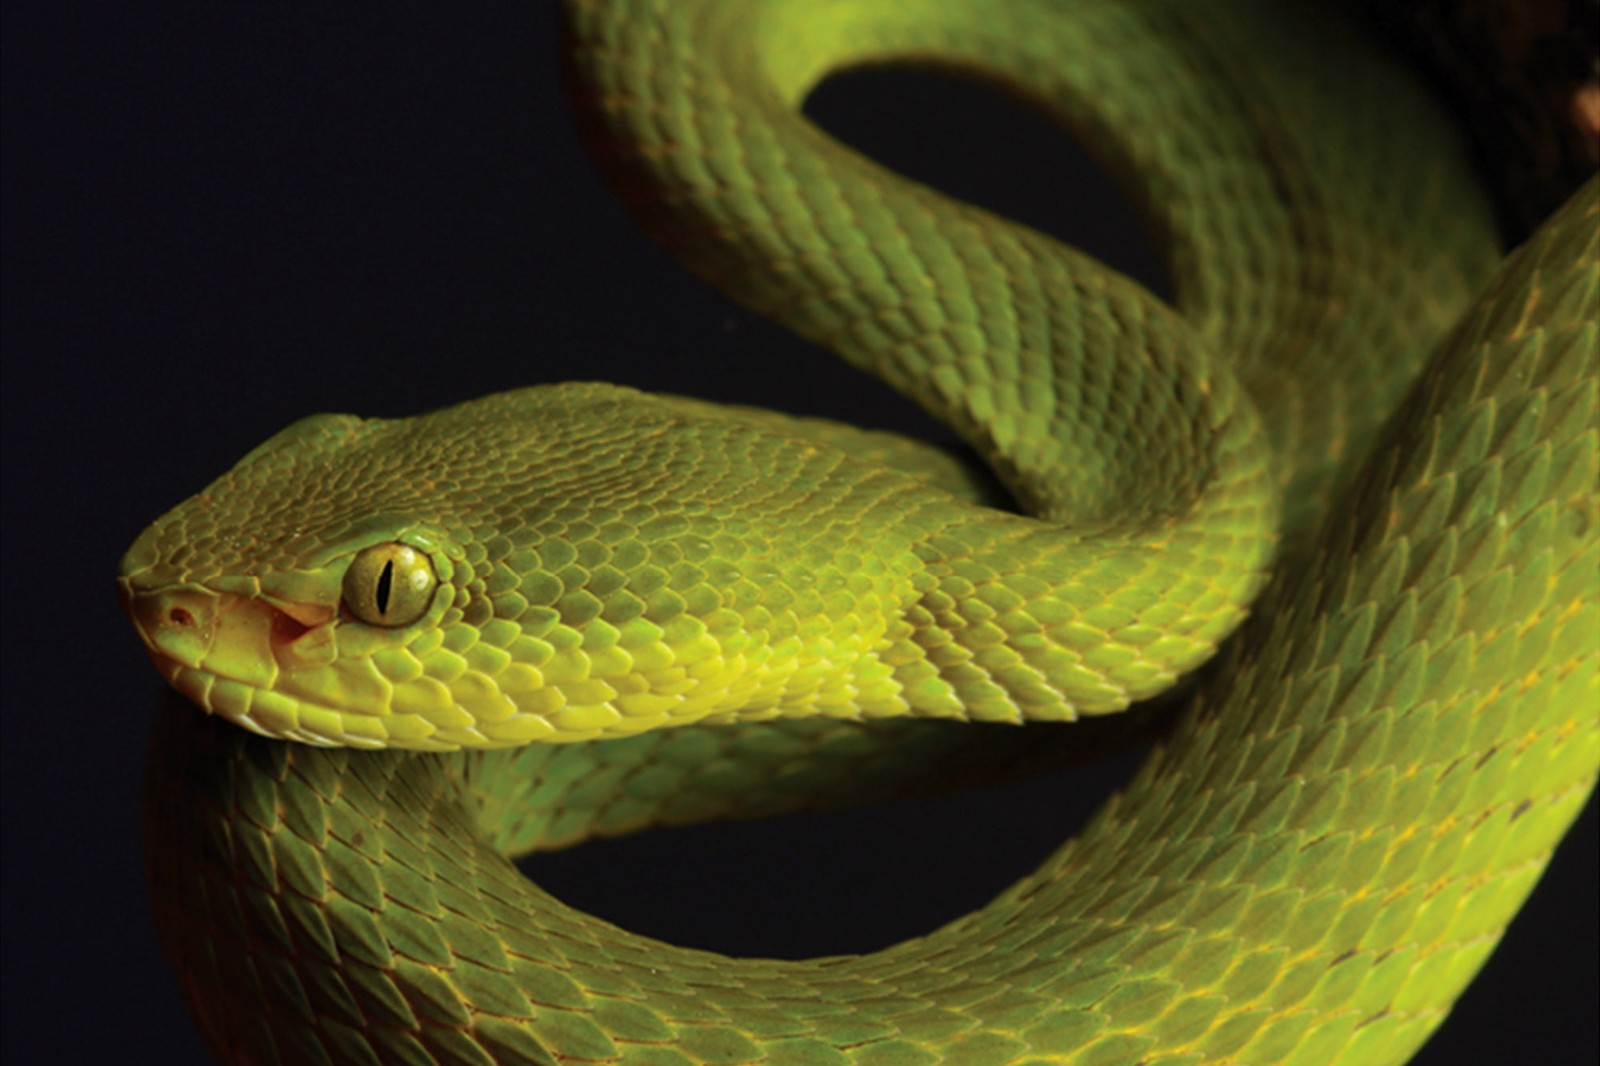
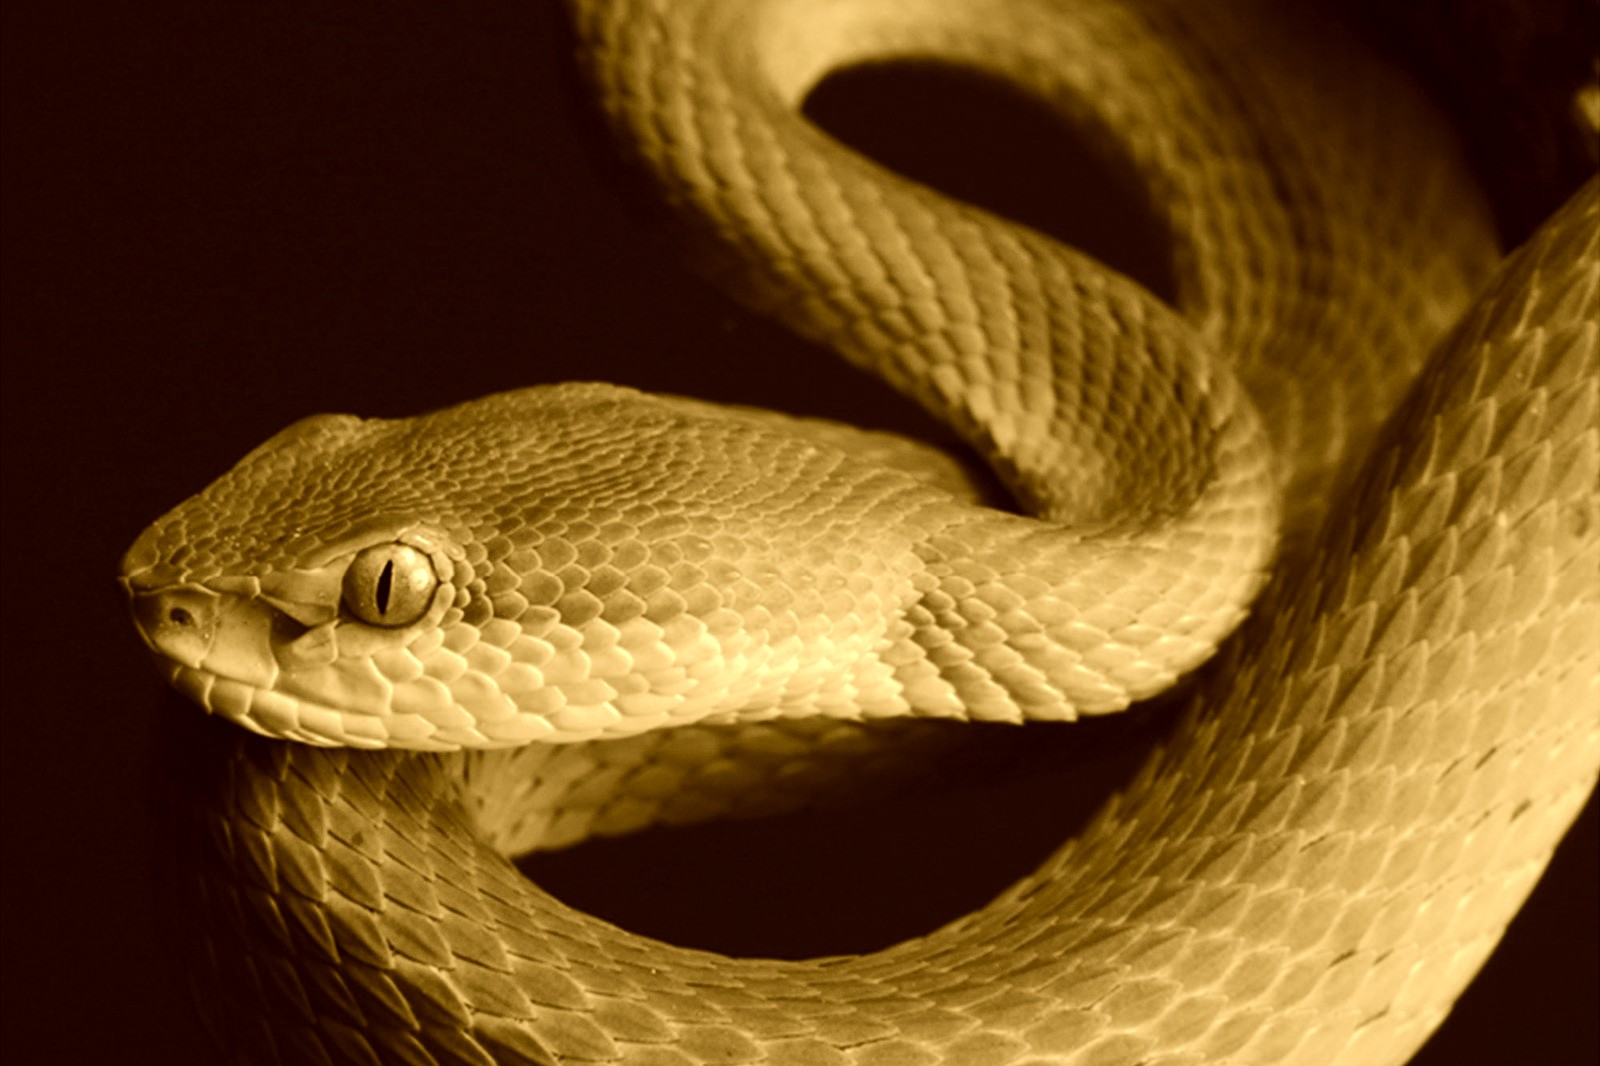
adição do titulo por imagem, coloração dos gifs em sépia, estilizações

diff --git a/style.css b/style.css
@@ -1,10 +1,27 @@
 body {
+  background-attachment: fixed;
+  background-image: url('background.jpg');
+  background-repeat: no-repeat;
+  background-size: cover;
+  font-family: Times, serif;
   margin: 1%;
   padding: 1%;
+  text-align: left;
+  word-wrap: break-word;
 }
 
-h1 {
-  text-align: center;
+.titulo {
+  display: block;
+  margin-left: auto;
+  margin-right: auto;
+}
+
+.h2 {
+  font-size: 30px;
+  margin-top: 50px;
+  opacity: 0.85;
+  text-transform: uppercase;
+  transform: scale(1, 2);
 }
 
 .mainArticle {
@@ -18,25 +35,32 @@ h1 {
 }
 
 .videoOne {
-  animation: show 3s;
-  height: 140px;
+  animation: show 2s;
+  animation-iteration-count: 1;
+  border-radius: 100%;
+  height: 160px;
   padding: 2%;
-  position: absolute;
-  width: 260px;
+  position: relative;
+  top: 10px;
+  width: 270px;
 }
 
 .videoTwo {
-  animation: appear 4s;
+  animation: appear 5s;
+  border-radius: 99px;
   padding: 2%;
-  position: relative;
+  position: absolute;
+  top: 395px;
   width: 300px;
 }
 
 .slythrinIMG {
-  animation: hide 10s;
+  animation: hide 5s;
+  border-radius: 100%;
   height: 160px;
   padding: 2%;
   position: absolute;
+  top: 395px;
   width: 280px;
 }
 
@@ -59,6 +83,7 @@ h1 {
 
   100% {
     opacity: 0;
+    transform: scale(0.1);
   }
 }
 
@@ -89,13 +114,27 @@ h1 {
   .container-layout {
     background-color: red;
   }
+
+  .videoTwo {
+    top: 350px;
+  }
+
+  .slythrinIMG {
+    top: 350px;
+  }
 }
 
 @media screen and ( max-width : 760px ) {
 
   .container-layout {
     background-color: yellow;
-    font-size: 10px;
+    display: block;
+    font-size: 20px;
+    width: 595px;
+  }
+
+  .h2 {
+    margin-top: 100px;
   }
 
   .videoOne {
@@ -105,8 +144,8 @@ h1 {
   .videoTwo {
     left: 10px;
     position: absolute;
-    top: 130px;
-    width: 100px;
+    top: 550px;
+    width: 200px;
   }
 
   .slythrinIMG {
@@ -115,12 +154,21 @@ h1 {
   }
 
   .figCap {
-    height: 70px;
+    height: 5px;
     padding: 5px;
     position: relative;
     right: 40px;
-    top: 40px;
-    width: 250px;
+    top: 180px;
+    width: 300px;
+    word-wrap: break-word;
+  }
+
+  p {
+    margin: 5px;
+  }
+
+  .pOne {
+    margin-top: 150px;
   }
 }
 

diff --git a/index.html b/index.html
@@ -11,24 +11,24 @@
 
 <body class="container-layout container-orientation">
   <header>
-    <h1>O Profeta Diário</h1>
+    <img class='titulo' src="profeta.png" alt="titulo do jornal">
   </header>
   <nav>
 
   </nav>
   <section>
     <article class="mainArticle">
-      <h2>Pesquisadores batizam nova espécie de cobra com homenagem a personagem de 'Harry Potter'</h2>
+      <h2 class="h2">Pesquisadores batizam nova espécie de cobra com homenagem a personagem de 'Harry Potter'</h2>
       <figure class="figure">
         <img class="slythrinIMG" src="slythrin.jpg" alt="Trimeresurus salazar head">
-        <video class="videoOne"
-          poster="https://i.kinja-img.com/gawker-media/image/upload/s--vYCWHKRp--/c_fit,fl_progressive,q_80,w_636/llelrx6um0u0ke5sjk6i.gif"></video>
-        <video class="videoTwo" poster="https://giffiles.alphacoders.com/298/2982.gif"></video>
+        <video class="videoOne" poster="snake.gif"></video>
+        <video class="videoTwo" poster="source.gif"></video>
         <figcaption class="figCap">Trimeresurus salazar, nova espécie de cobra descoberta na índia, teve nome escolhido
           em homenagem a
           personagem de 'Harry Potter' — Foto: Divulgação</figcaption>
       </figure>
-      <p class="pOne">Pesquisadores indianos se inspiraram na série de livros e filmes de "Harry Potter" para batizar uma nova
+      <p class="pOne">Pesquisadores indianos se inspiraram na série de livros e filmes de "Harry Potter" para batizar
+        uma nova
         espécie de cobra descoberta na região de Arunachal Pradesh, na Índia. A víbora venenosa de tom verde vívido foi
         batizada de Trimeresurus salazar.
       </p>
